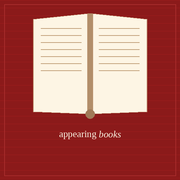
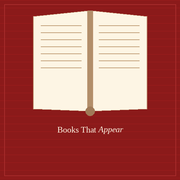
rename to Books That Appear

diff --git a/index.html b/index.html
@@ -3,24 +3,24 @@
 <head>
   <meta charset="UTF-8">
   <meta name="viewport" content="width=device-width, initial-scale=1.0">
-  <title>appearing books — 一節から本と出会おう</title>
+  <title>Books That Appear — 一節から本と出会おう</title>
   <meta name="description" content="本のタイトルを隠した「一節」だけが表示される。気になれば「読みたい」を押すと本が明かされる。ブラインドブックのWeb体験。">
 
   <!-- ★ サイトURL — 公開ドメインに合わせて変更してください ★ -->
   <!-- OGP / SNS シェア -->
   <meta property="og:type"        content="website">
   <meta property="og:url"         content="https://appearingbooks.workers.dev/">
-  <meta property="og:title"       content="appearing books — 一節から本と出会おう">
+  <meta property="og:title"       content="Books That Appear — 一節から本と出会おう">
   <meta property="og:description" content="本のタイトルを隠した「一節」だけが表示される。気になれば「読みたい」を押すと本が明かされる。ブラインドブックのWeb体験。">
   <meta property="og:image"       content="https://appearingbooks.workers.dev/assets/ogp.png">
   <meta property="og:image:width"  content="1200">
   <meta property="og:image:height" content="630">
   <meta property="og:locale"      content="ja_JP">
-  <meta property="og:site_name"   content="appearing books">
+  <meta property="og:site_name"   content="Books That Appear">
 
   <!-- Twitter / X Card -->
   <meta name="twitter:card"        content="summary_large_image">
-  <meta name="twitter:title"       content="appearing books — 一節から本と出会おう">
+  <meta name="twitter:title"       content="Books That Appear — 一節から本と出会おう">
   <meta name="twitter:description" content="本のタイトルを隠した「一節」だけが表示される。気になれば「読みたい」を押すと本が明かされる。">
   <meta name="twitter:image"       content="https://appearingbooks.workers.dev/assets/ogp.png">
 
@@ -48,7 +48,7 @@
 <div class="progress-bar" id="progressBar"></div>
 
 <header class="header">
-  <a class="logo" href="#">appearing <span>books</span></a>
+  <a class="logo" href="#">Books That <span>Appear</span></a>
   <div class="header-actions">
     <button class="btn-icon" id="listBtn" title="読みたいリスト">📚</button>
   </div>
